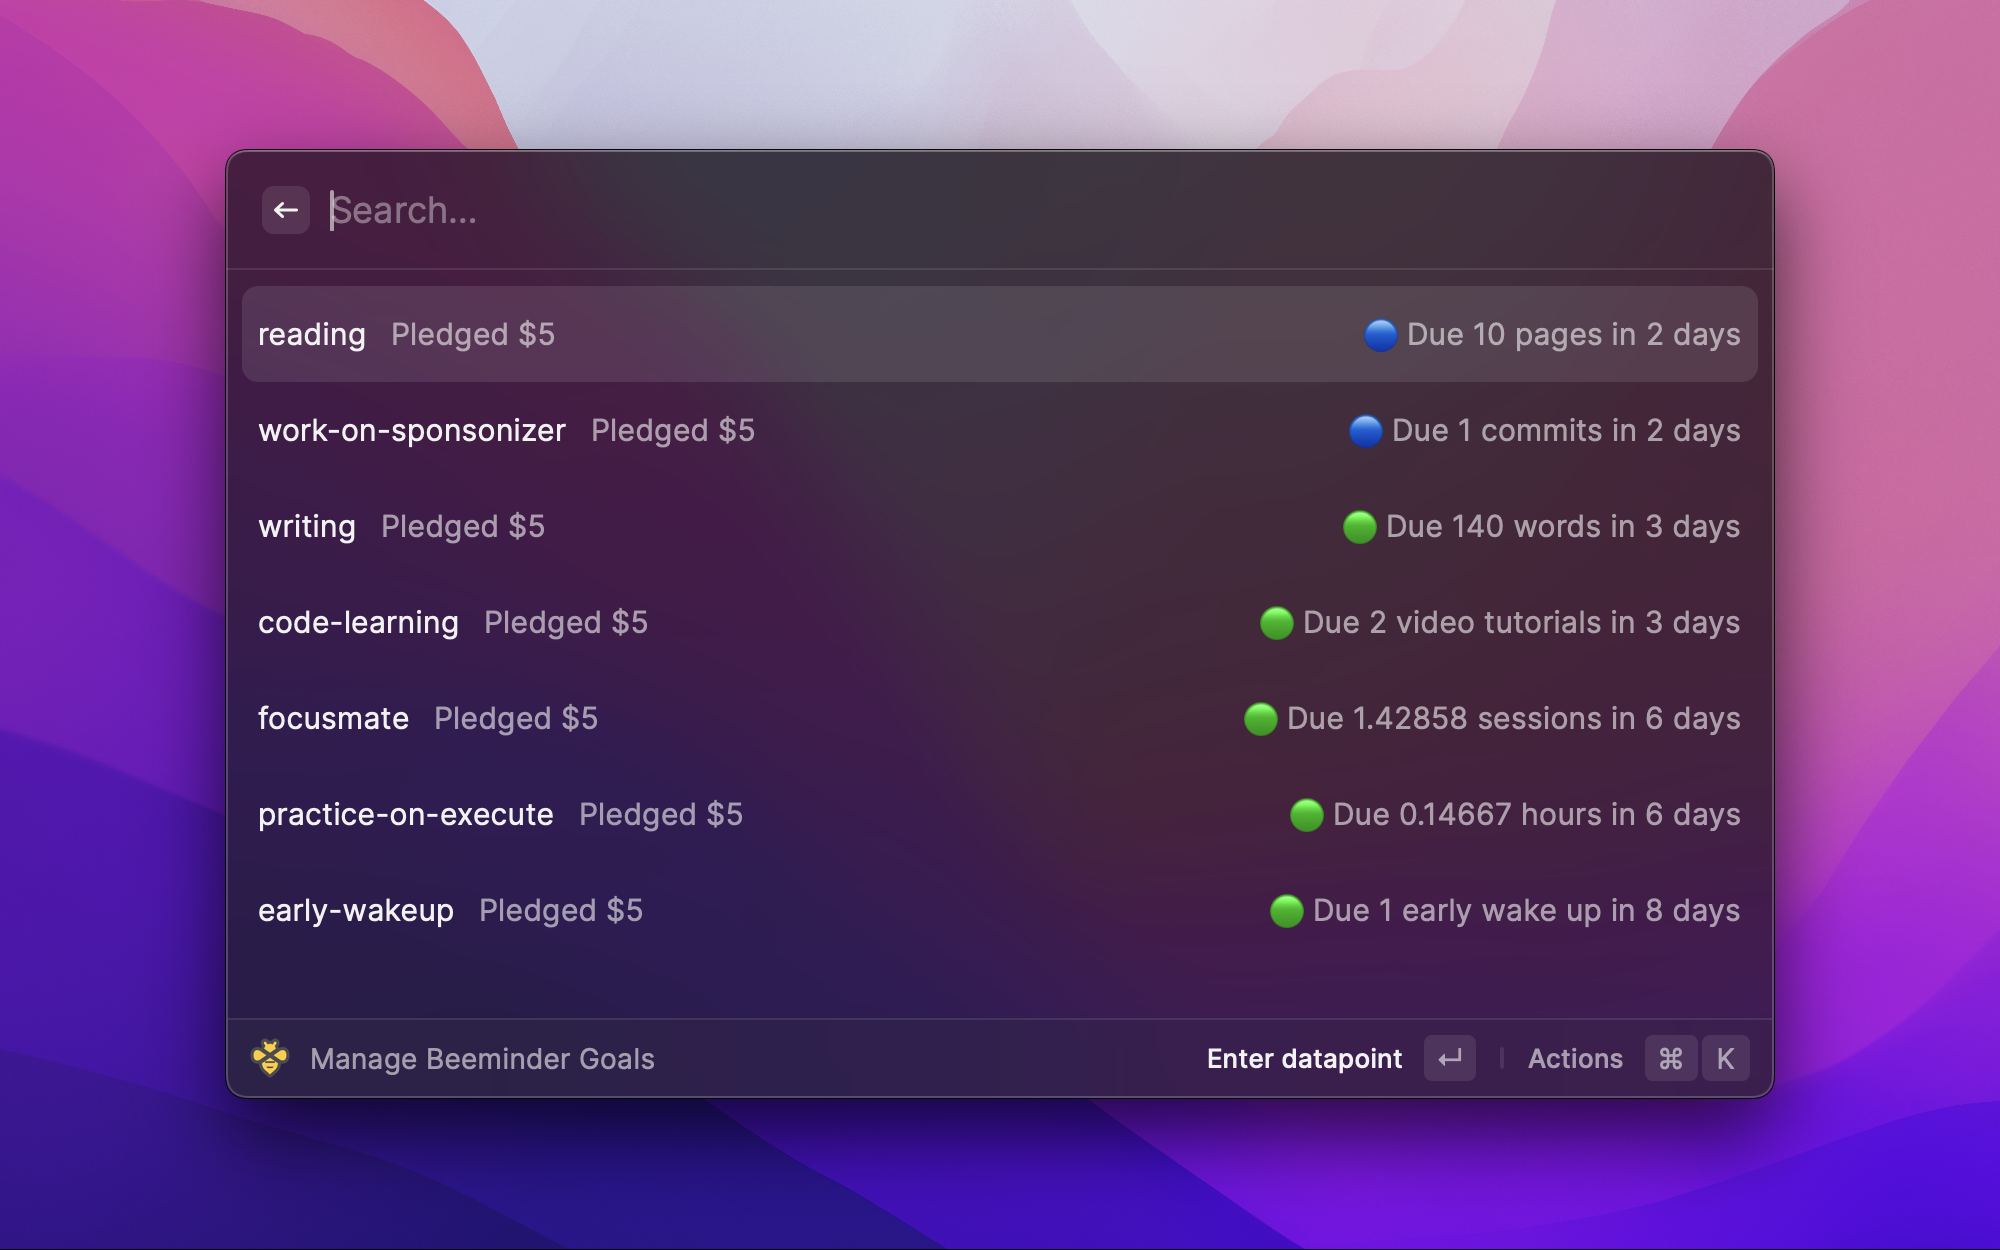
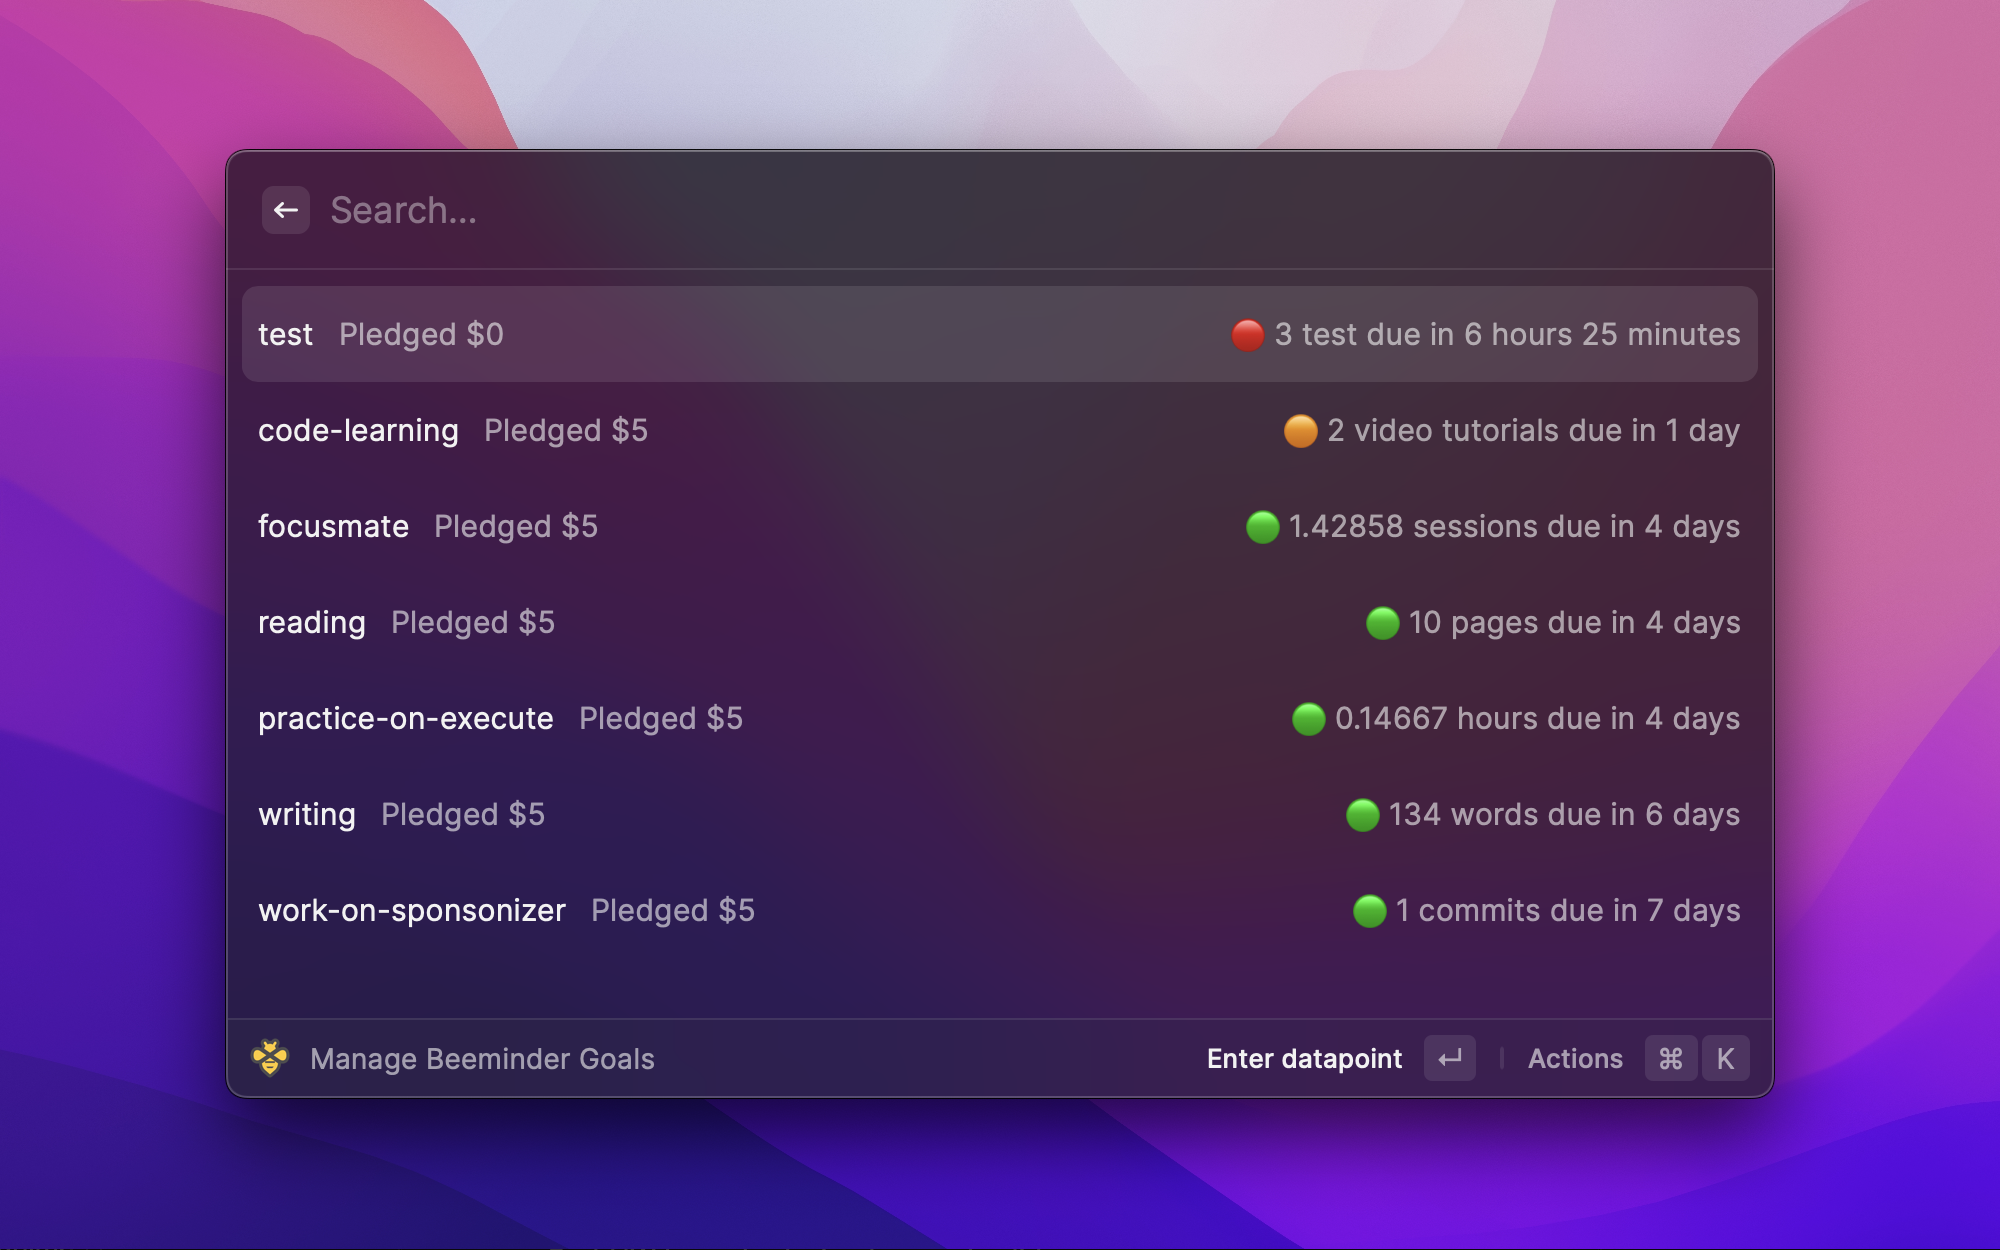
Add support for less than 1 day due date

diff --git a/src/beeminder.tsx b/src/beeminder.tsx
@@ -1,6 +1,6 @@
 import { List, ActionPanel, Action, popToRoot, showToast, Toast, Form } from "@raycast/api";
 import { usePromise, useForm } from "@raycast/utils";
-import { fromUnixTime, differenceInDays } from "date-fns";
+import moment from "moment";
 import { Goal, GoalResponse, DataPointFormValues } from "./types";
 import { fetchGoals, sendDatapoint } from "./api";
 
@@ -85,14 +85,38 @@ export default function Command() {
     return (
       <List isLoading={isLoading}>
         {goals?.map((goal: Goal) => {
+          const timeDiff = moment.unix(goal.losedate).diff(new Date());
+          const timeDiffDuration = moment.duration(timeDiff);
+          const dayDifference = moment.unix(goal.losedate).diff(new Date(), "days");
+
           const [beforeIn, afterIn] = goal.limsum.split("+")?.[1].split(" (")?.[0].split(" in ");
           let goalIcon;
+          let dueText = `${beforeIn} ${goal.gunits} due in ${
+            dayDifference > 1
+              ? dayDifference + " days"
+              : dayDifference == 1
+              ? dayDifference + " day"
+              : ""
+          }`;
 
-          if (differenceInDays(fromUnixTime(goal.losedate), new Date()) < 1) {
+          if (dayDifference < 1) {
             goalIcon = "🔴";
-          } else if (differenceInDays(fromUnixTime(goal.losedate), new Date()) < 2) {
+            dueText = `${beforeIn} ${goal.gunits} due in${
+              timeDiffDuration.hours() > 1
+                ? " " + timeDiffDuration.hours() + " hours"
+                : timeDiffDuration.hours() == 1
+                ? " " + timeDiffDuration.hours() + " hour"
+                : ""
+            }${
+              timeDiffDuration.minutes() > 1
+                ? " " + timeDiffDuration.minutes() + " minutes"
+                : timeDiffDuration.minutes() == 1
+                ? " " + timeDiffDuration.minutes() + " minute"
+                : ""
+            }`;
+          } else if (dayDifference < 2) {
             goalIcon = "🟠";
-          } else if (differenceInDays(fromUnixTime(goal.losedate), new Date()) < 3) {
+          } else if (dayDifference < 3) {
             goalIcon = "🔵";
           } else {
             goalIcon = "🟢";
@@ -104,7 +128,10 @@ export default function Command() {
               title={goal.slug}
               subtitle={`Pledged $${goal.pledge}`}
               accessories={[
-                { text: `Due ${beforeIn} ${goal.gunits} in ${afterIn}`, icon: goalIcon },
+                {
+                  text: dueText,
+                  icon: goalIcon,
+                },
               ]}
               keywords={[goal.slug, goal.title]}
               actions={
